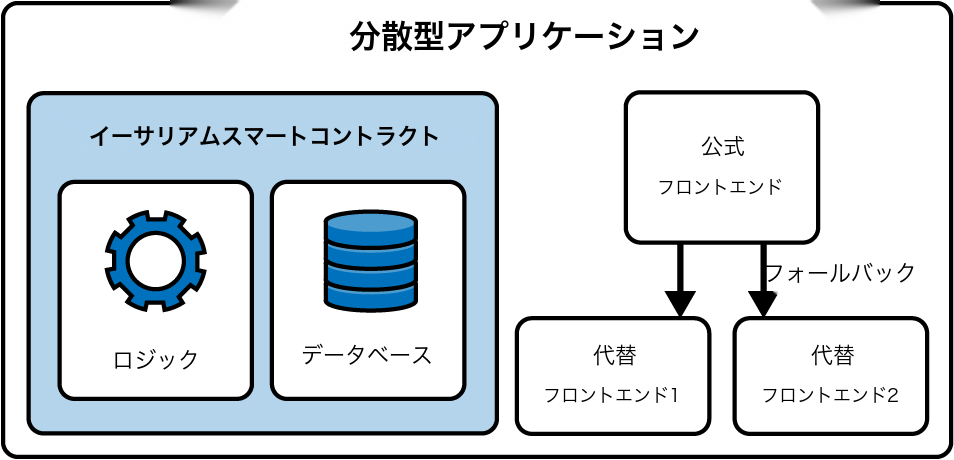
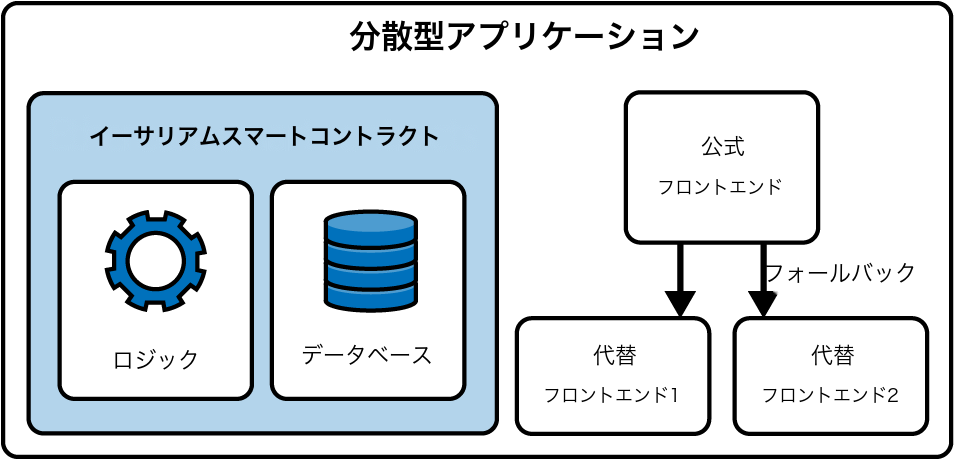
fix(images): 1103/1202 の残課題対応（イタリック数字残骸とタイトル弧）
- scripts/translate_image.py:
  - __extra_mask_boxes_soft__ を追加（連結成分フィルター適用マスク）
  - hard mask 領域は inpaint 後に周辺中央値で再塗装し、
    inpaint が失敗する複雑な領域でも残骸を確実に消す
  - 連結成分の connectivity を 8→4 に変更（隣接文字の合体を防止）

- ch11/maet_1103: 「3.」「6.」のイタリック数字残骸をマスク座標で除去
- ch12/maet_1202: タイトル領域マスクを soft 化し上端の弧を保護

Changed region(s): [[0.1824, 0.0, 0.9423, 0.0304]]

diff --git a/scripts/translate_image.py b/scripts/translate_image.py
@@ -84,7 +84,7 @@ def build_mask(image_path: str, regions: list[dict], pad: int = 2) -> np.ndarray
         roi = gray[y1:y2, x1:x2]
         bin_dark = (roi < 180).astype(np.uint8)
 
-        n_labels, labels, stats, _ = cv2.connectedComponentsWithStats(bin_dark, 8)
+        n_labels, labels, stats, _ = cv2.connectedComponentsWithStats(bin_dark, 4)
         char_mask = np.zeros_like(bin_dark)
 
         for i in range(1, n_labels):
@@ -173,8 +173,10 @@ def translate_image(image_path: str, translation_map: dict, preview: bool = Fals
     detections = detect_text(image_path)
     print(f"       Found {len(detections)} text regions")
 
-    # マップに __extra_mask_boxes__ があれば OCR が拾えなかった領域を強制マスク
+    # __extra_mask_boxes__: 全領域マスク（タイトルバンドなど大きく消したい場合）
     extra_mask_boxes = translation_map.pop("__extra_mask_boxes__", [])
+    # __extra_mask_boxes_soft__: 連結成分フィルター適用マスク（はみ出し文字の追加マスクに）
+    extra_mask_boxes_soft = translation_map.pop("__extra_mask_boxes_soft__", [])
     # __extra_text_regions__ は OCR を経由せず座標指定で翻訳テキストを描画
     # 形式: [{"box": [x1,y1,x2,y2], "ja": "テキスト", "bold": true, "font_size": 24}, ...]
     extra_text_regions = translation_map.pop("__extra_text_regions__", [])
@@ -259,7 +261,12 @@ def translate_image(image_path: str, translation_map: dict, preview: bool = Fals
         return
 
     print(f"[2/4] Mask (connected-component filter) for {len(regions)} regions")
-    mask = build_mask(image_path, regions)
+    mask_regions = list(regions)
+    if extra_mask_boxes_soft:
+        for box in extra_mask_boxes_soft:
+            mask_regions.append({"box": box})
+        print(f"       + {len(extra_mask_boxes_soft)} soft extra mask box(es)")
+    mask = build_mask(image_path, mask_regions)
     if extra_mask_boxes:
         for box in extra_mask_boxes:
             x1, y1, x2, y2 = box
@@ -271,6 +278,20 @@ def translate_image(image_path: str, translation_map: dict, preview: bool = Fals
 
     print("[3/4] Inpainting (TELEA)")
     inpainted = inpaint_image(image_path, mask)
+    # extra_mask_boxes (hard) は inpaint 後に各 box の周辺中央値で再塗装
+    # （inpaint が複雑な領域で失敗した残骸を確実に消す）
+    if extra_mask_boxes:
+        for box in extra_mask_boxes:
+            x1, y1, x2, y2 = box
+            h_img, w_img = inpainted.shape[:2]
+            sx1, sy1 = max(0, x1 - 5), max(0, y1 - 5)
+            sx2, sy2 = min(w_img, x2 + 5), min(h_img, y2 + 5)
+            sample = inpainted[sy1:sy2, sx1:sx2].copy()
+            sample[max(0, y1-sy1):y2-sy1, max(0, x1-sx1):x2-sx1] = 0
+            sample_pixels = sample[sample.sum(axis=2) > 0]
+            if len(sample_pixels) > 0:
+                fill_color = np.median(sample_pixels, axis=0).astype(np.uint8)
+                inpainted[y1:y2, x1:x2] = fill_color
 
     print("[4/4] Drawing Japanese text")
     result = draw_translations(inpainted, regions)
